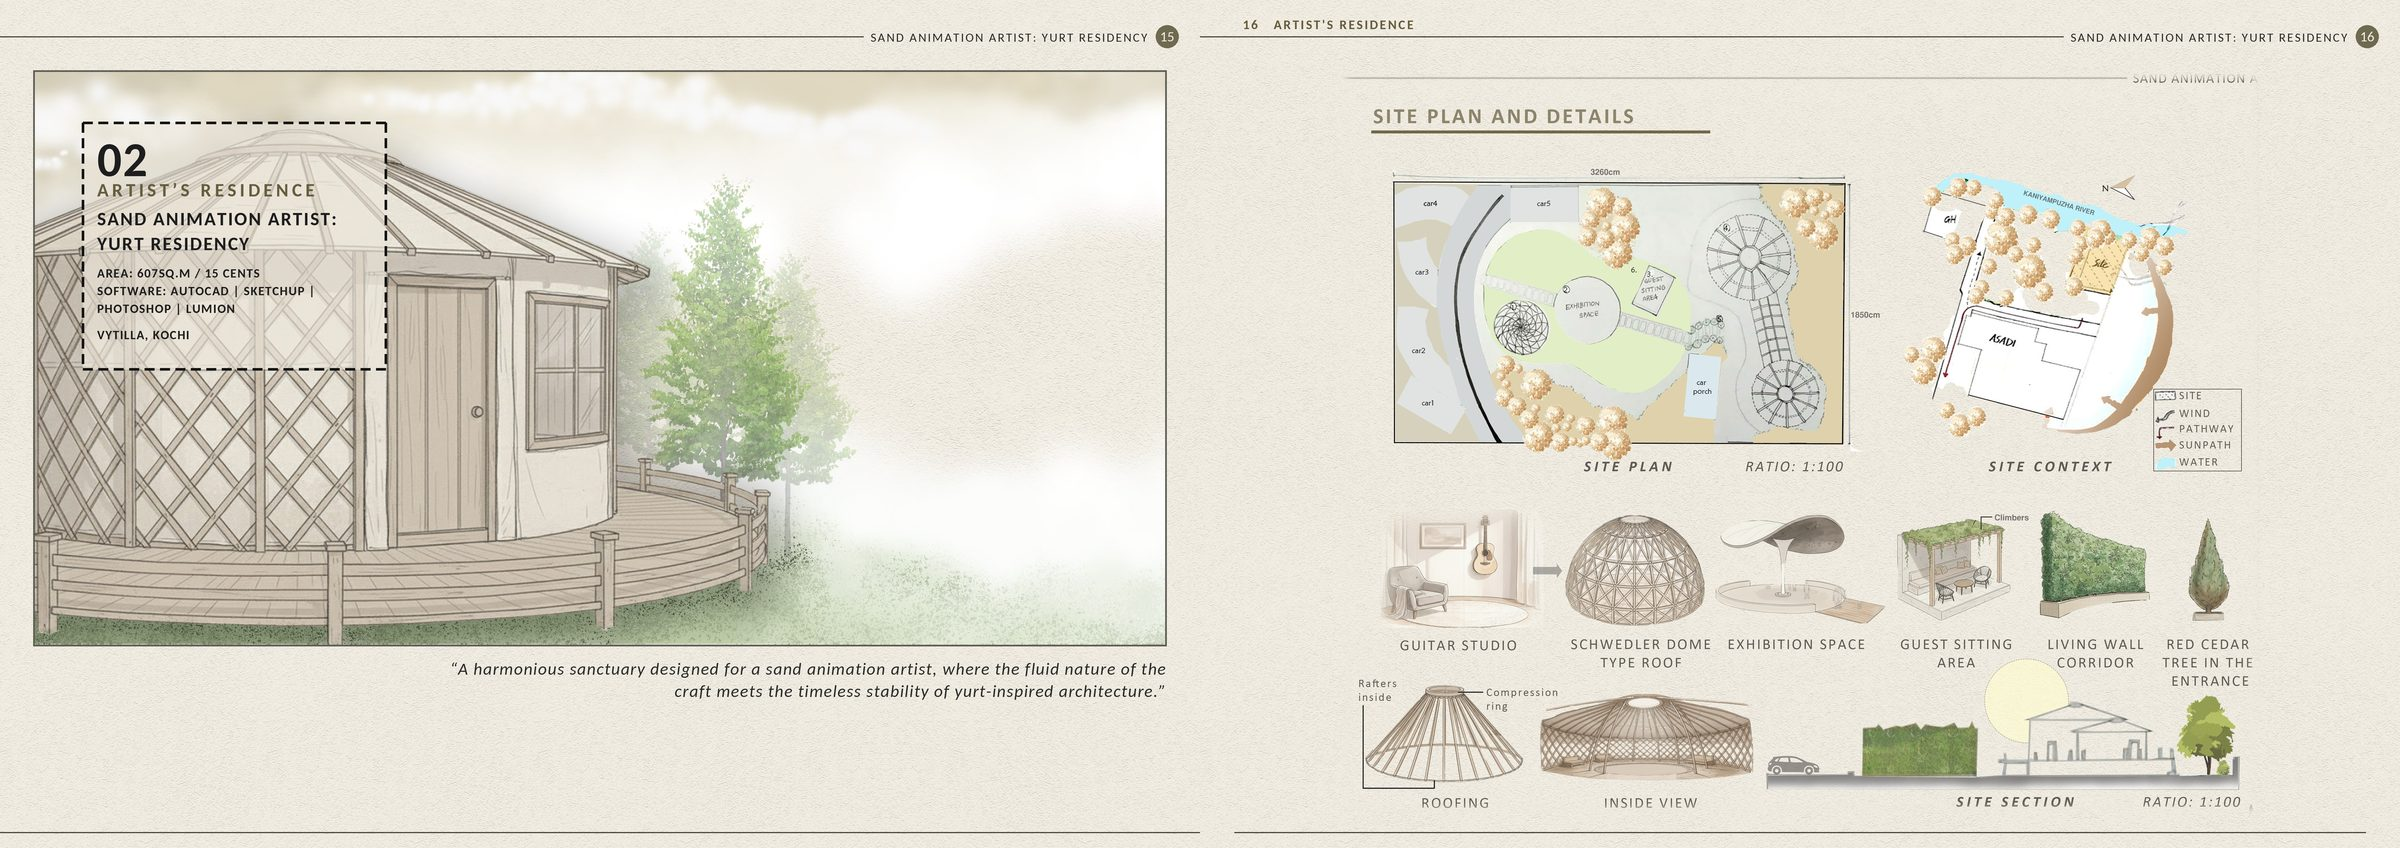
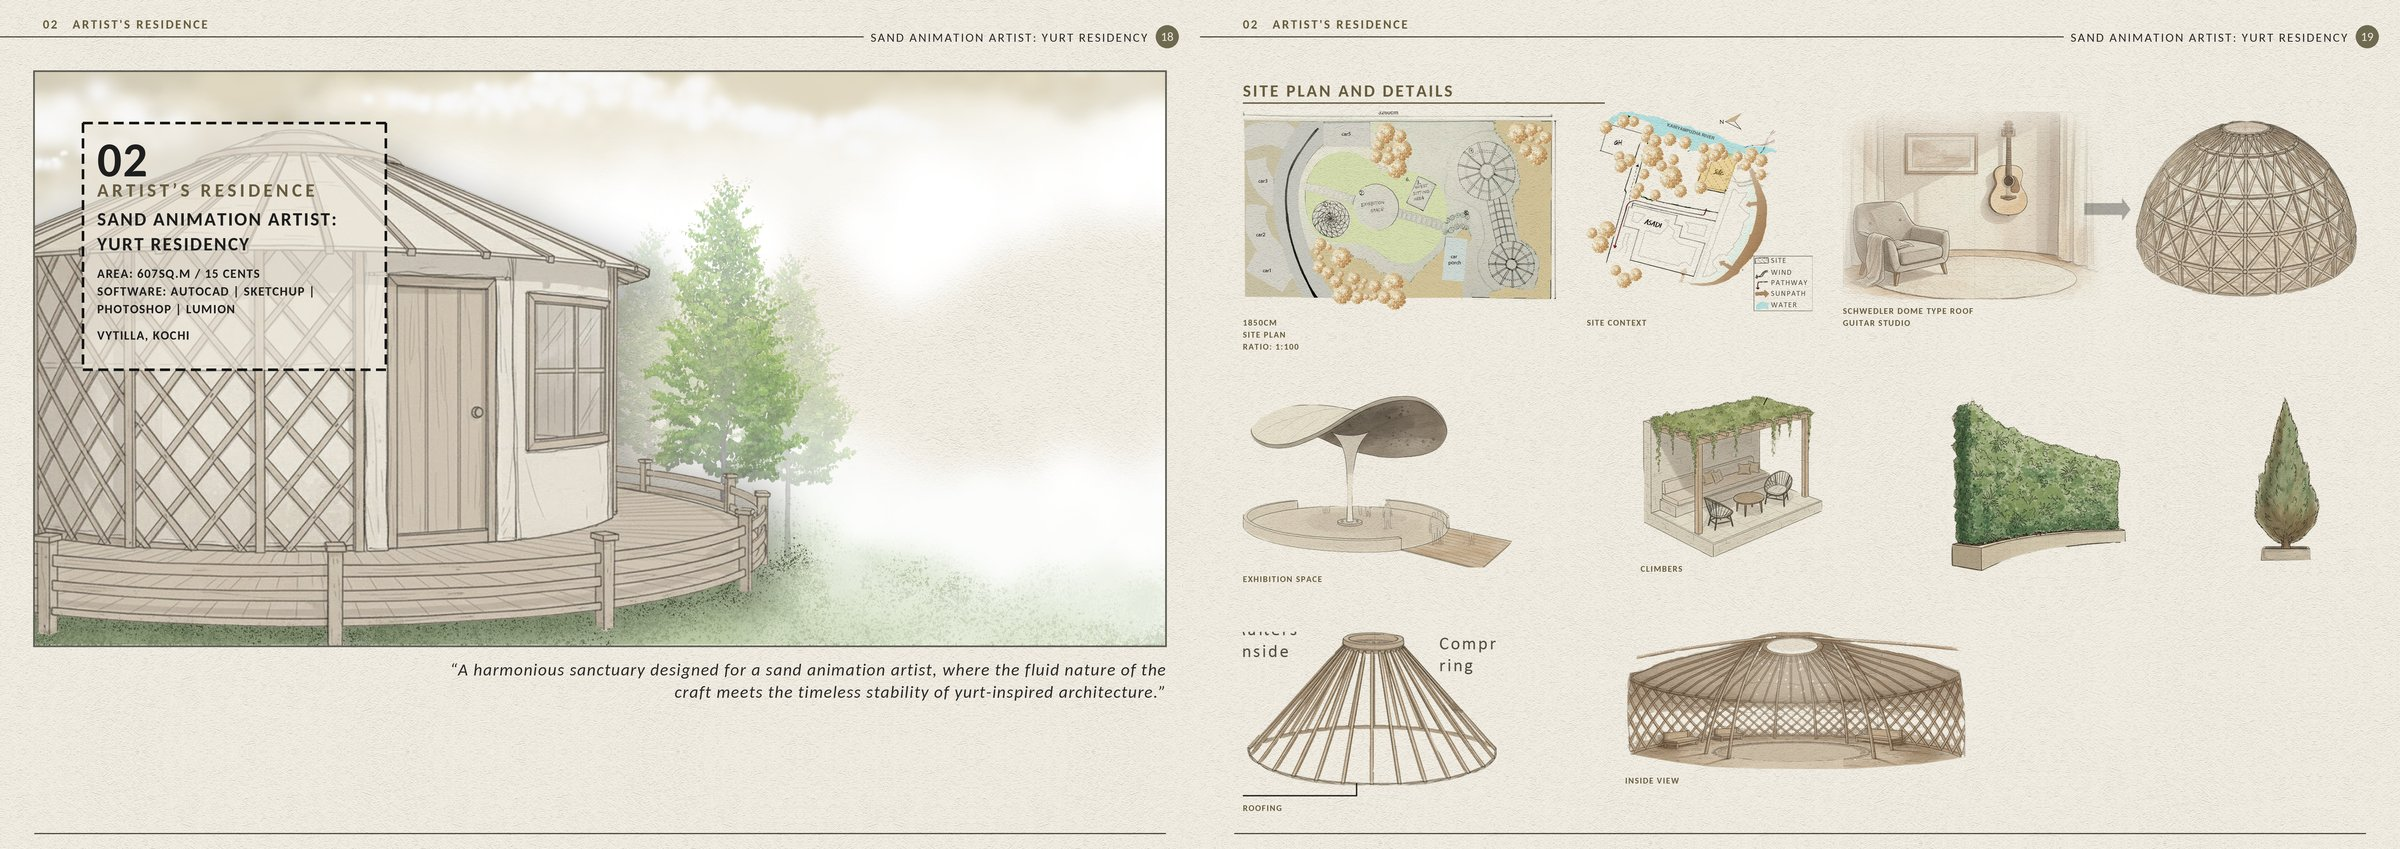
Professional grid relayout: single font, no white boxes, rebalanced pages

Changed region(s): [[0.5, 0.092, 1.0, 0.9505], [0.5312, 0.0, 0.5938, 0.0307], [0.0312, 0.0, 0.0625, 0.0307]]

diff --git a/src/app/page.tsx b/src/app/page.tsx
@@ -22,10 +22,10 @@ type Work = { n: string; t: string; tl?: string; s?: string; meta?: string[]; bo
 const seq = (k: string, n: number) => Array.from({ length: n }, (_, i) => `${k}-${i + 1}.jpg`);
 const works: Work[] = [
   { n: "01", t: "Film Institute", tl: "Thesis", s: "Thesis · Parvai: The Cinematic Continuum", meta: ["Academic Thesis · Chennai, India · 2025–2026", "Site area 13 acres · Built-up area 10,000 sq.m", "Program: Educational + Public", "Software: AutoCAD · SketchUp · Photoshop · Lumion"], quote: "Where Cinema becomes a shared public experience and the story is portrayed through the Director\u2019s lens.", imgs: seq("film-institute", 7) },
-  { n: "02", t: "Artist's Residence", s: "Vytilla, Kochi · Area 607 sq.m / 15 cents", body: "A harmonious sanctuary designed for a sand animation artist, where the fluid nature of the craft meets the timeless stability of yurt-inspired architecture. The residence integrates open-plan living with dedicated studio space, utilizing circular geometry with riverfront landscape. Kaniyampuzha River which explores the synergy between an artist\u2019s hobbies and their living space. The design features a guitar-shaped public garden and a greenhouse-integrated corridor, blending nomadic structural wisdom with modern site-specific sustainability.", imgs: seq("artists-residence", 2) },
+  { n: "02", t: "Artist's Residence", s: "Vytilla, Kochi · Area 607 sq.m / 15 cents", body: "A harmonious sanctuary designed for a sand animation artist, where the fluid nature of the craft meets the timeless stability of yurt-inspired architecture. The residence integrates open-plan living with dedicated studio space, utilizing circular geometry with riverfront landscape. Kaniyampuzha River which explores the synergy between an artist\u2019s hobbies and their living space. The design features a guitar-shaped public garden and a greenhouse-integrated corridor, blending nomadic structural wisdom with modern site-specific sustainability.", imgs: seq("artists-residence", 3) },
   { n: "03", t: "Mixed-Use High Rise Building", s: "Vertical Housing", imgs: seq("mixed-use", 2) },
-  { n: "04", t: "Housing", s: "Building HIG, MIG, LIG and EWS Houses · Large Scale Project", imgs: seq("housing", 2) },
-  { n: "05", t: "Urban Hub", tl: "Time Bound Test", s: "Time Bound Test · Urban Scale Project", imgs: seq("urban-hub", 1) },
+  { n: "04", t: "Housing", s: "Building HIG, MIG, LIG and EWS Houses · Large Scale Project", imgs: seq("housing", 3) },
+  { n: "05", t: "Urban Hub", tl: "Time Bound Test", s: "Time Bound Test · Urban Scale Project", imgs: seq("urban-hub", 2) },
   { n: "06", t: "Internship Work", tl: "Selected Works", s: "Selected Works · Asif Rahman Junaid Architects (ARJ+ARCHITECTS)", imgs: seq("internship", 1), half: true },
   { n: "07", t: "Miscellaneous", s: "Canvas Painting · Sketching · Face Mask Painting · Mandala Art · Illustrations · Photography", imgs: seq("miscellaneous", 1), half: true },
 ];
